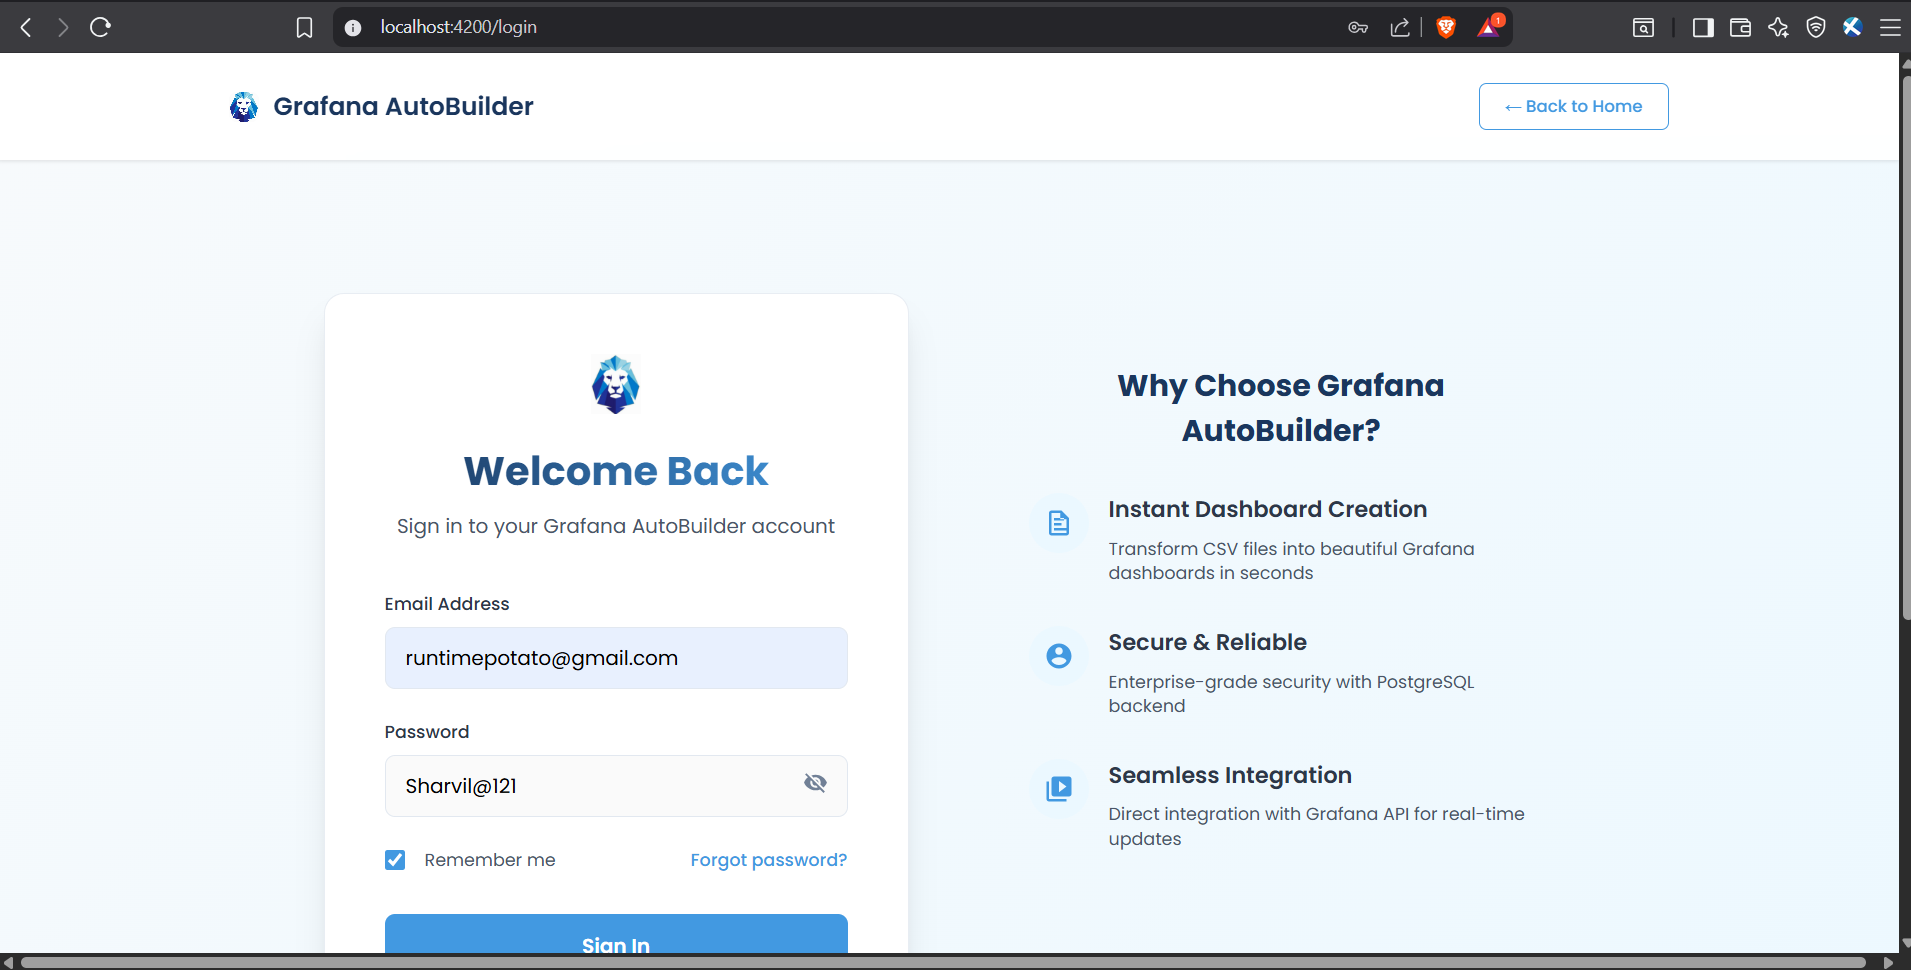
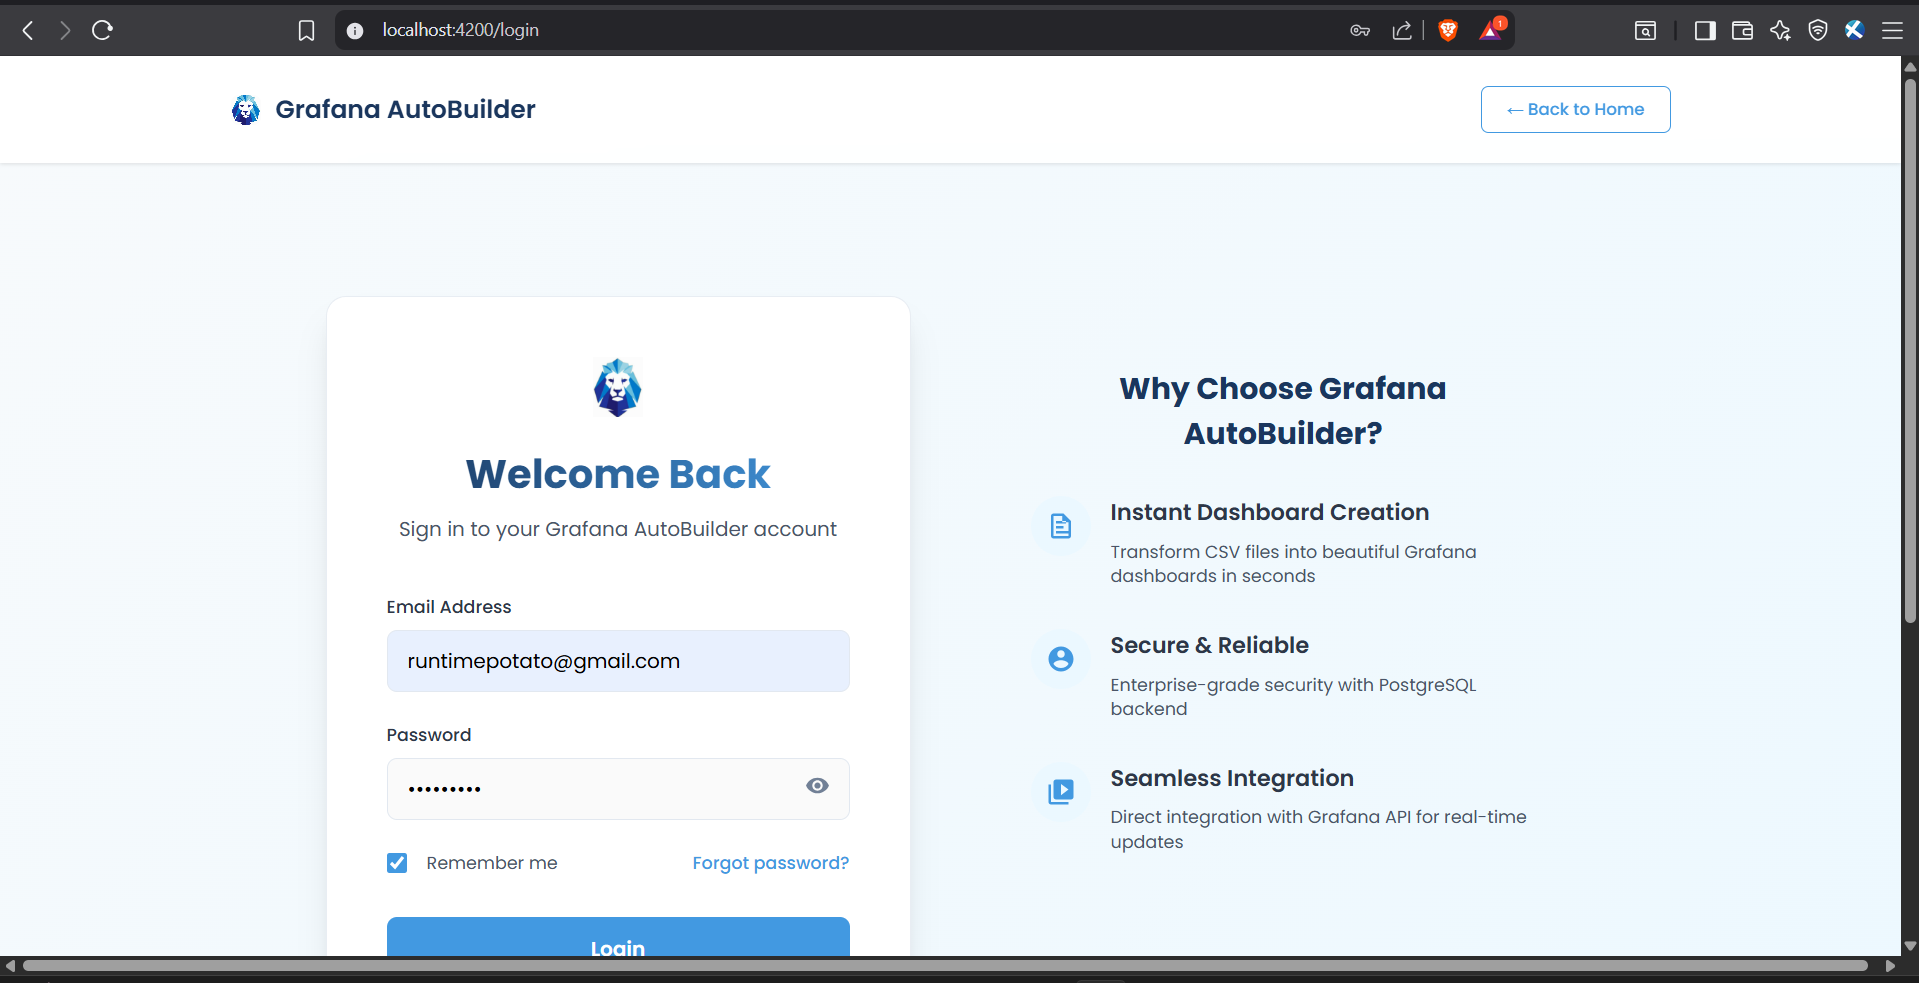
changes

diff --git a/src/app/Components/login/login.html b/src/app/Components/login/login.html
@@ -123,7 +123,7 @@
             class="login-btn"
             [disabled]="loginForm.invalid || isLoading"
           >
-            <span *ngIf="!isLoading">Sign In</span>
+            <span *ngIf="!isLoading">Login</span>
             <span *ngIf="isLoading" class="loading-spinner">
               <svg
                 xmlns="http://www.w3.org/2000/svg"
